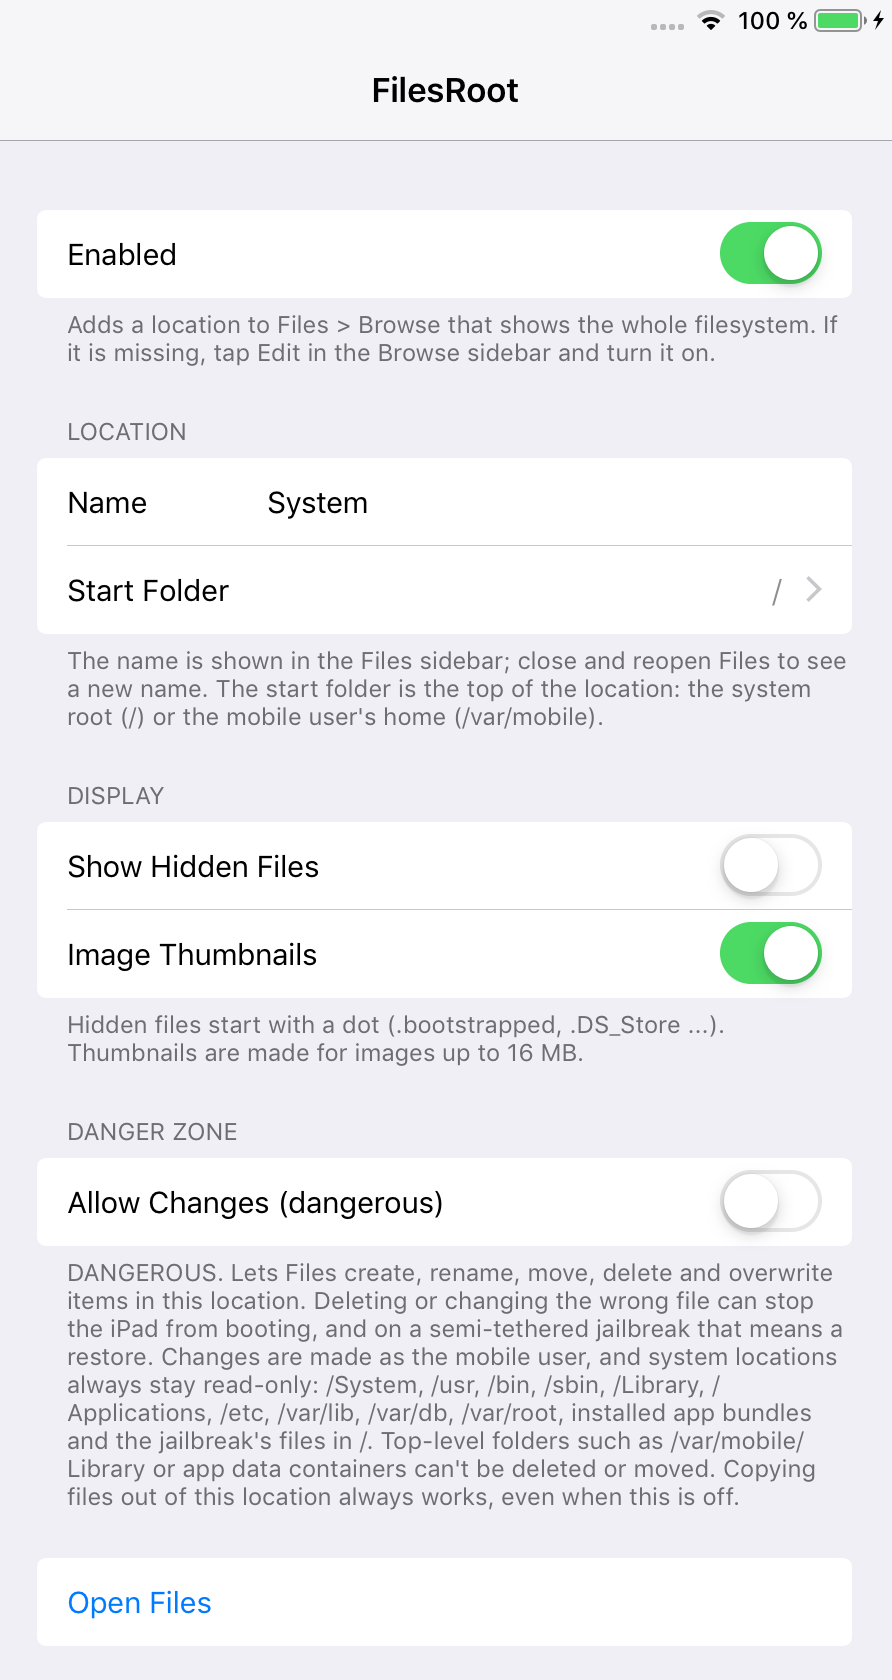
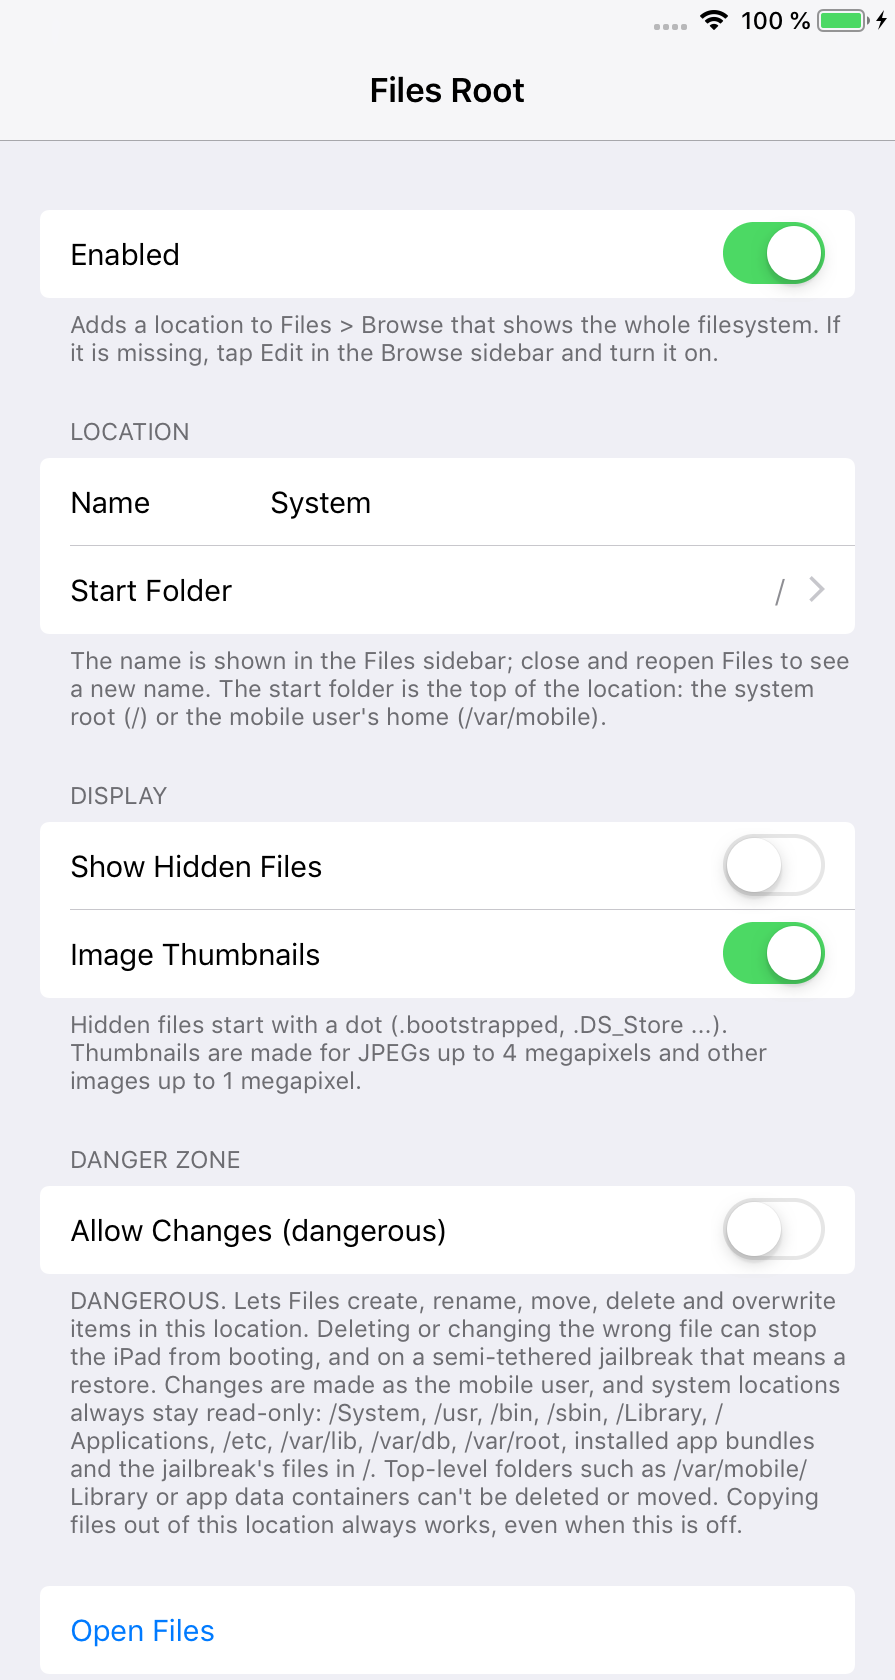
FilesRoot 1.0.2: name it "Files Root" in Settings, explain the real thumbnail limits
The Settings entry now matches Files Archiver and Files Extensions. The Display footer
said thumbnails were made for images up to 16 MB; since 1.0.1 the limit is in pixels.

diff --git a/app/main.m b/app/main.m
@@ -23,7 +23,7 @@
     UILabel *label = [UILabel new];
     label.numberOfLines = 0;
     label.textAlignment = NSTextAlignmentCenter;
-    label.text = [NSString stringWithFormat:@"FilesRoot adds “%@” to Files.\n\nOpen Files > Browse. If the location is missing, tap Edit and turn it on.\nOptions are in Settings > FilesRoot.", [FRPrefs current].name];
+    label.text = [NSString stringWithFormat:@"FilesRoot adds “%@” to Files.\n\nOpen Files > Browse. If the location is missing, tap Edit and turn it on.\nOptions are in Settings > Files Root.", [FRPrefs current].name];
     label.translatesAutoresizingMaskIntoConstraints = NO;
     UIButton *files = [UIButton buttonWithType:UIButtonTypeSystem];
     [files setTitle:@"Open Files" forState:UIControlStateNormal];

diff --git a/provider/FRItem.m b/provider/FRItem.m
@@ -69,7 +69,7 @@ NSError *FRErrorFromErrno(int err, NSString *path, BOOL writing) {
 NSError *FRWriteDeniedError(NSString *path, FRPrefs *prefs) {
     NSString *msg = prefs.allowChanges
         ? [NSString stringWithFormat:@"“%@” is in a protected system location and can’t be changed with FilesRoot.", path.lastPathComponent]
-        : @"This location is read-only. Changes can be allowed in Settings > FilesRoot (dangerous).";
+        : @"This location is read-only. Changes can be allowed in Settings > Files Root (dangerous).";
     return [NSError errorWithDomain:NSCocoaErrorDomain code:NSFileWriteNoPermissionError
                            userInfo:@{ NSLocalizedDescriptionKey: msg, NSFilePathErrorKey: path ?: @"" }];
 }

diff --git a/README.md b/README.md
@@ -18,15 +18,15 @@ The System location in the Files sidebar:
 
 | Browsing `/` | Read-only by default |
 | --- | --- |
-| <img src="screenshots/browse-root.png" alt="The root folder in the System location" width="380"> | <img src="screenshots/read-only.png" alt="Alert: This location is read-only. Changes can be allowed in Settings > FilesRoot (dangerous)." width="380"> |
+| <img src="screenshots/browse-root.png" alt="The root folder in the System location" width="380"> | <img src="screenshots/read-only.png" alt="Alert: This location is read-only. Changes can be allowed in Settings (dangerous)." width="380"> |
 
 System folders stay protected even with changes allowed (here `/usr/bin`, reached through a link):
 
 <img src="screenshots/protected.png" alt="Alert: usrbin-link is in a protected system location and can't be changed with FilesRoot." width="380">
 
-Settings > FilesRoot:
+Settings > Files Root:
 
-<img src="screenshots/settings.png" alt="FilesRoot settings page" width="420">
+<img src="screenshots/settings.png" alt="Files Root settings page" width="420">
 
 ## Features
 
@@ -57,7 +57,7 @@ FilesRoot gives the Files app access to every folder on the device. Read this be
 
 The rules are plain C in [`shared/FRPolicy.c`](shared/FRPolicy.c) and have unit tests in [`tests/policy_test.c`](tests/policy_test.c).
 
-If something goes wrong, turn off **Allow Changes** (or **Enabled**) in Settings > FilesRoot, or uninstall the package. Uninstalling removes the location and leaves your files as they are.
+If something goes wrong, turn off **Allow Changes** (or **Enabled**) in Settings > Files Root, or uninstall the package. Uninstalling removes the location and leaves your files as they are.
 
 ## Compatibility
 
@@ -83,7 +83,7 @@ Requires `mobilesubstrate` (Substrate, Substitute or libhooker) and PreferenceLo
 
 ## Settings
 
-Open **Settings > FilesRoot**:
+Open **Settings > Files Root**:
 
 - **Enabled**: shows or hides the location in Files.
 - **Name**: the name in the Files sidebar (default "System"). Close and reopen Files to see a new name.
